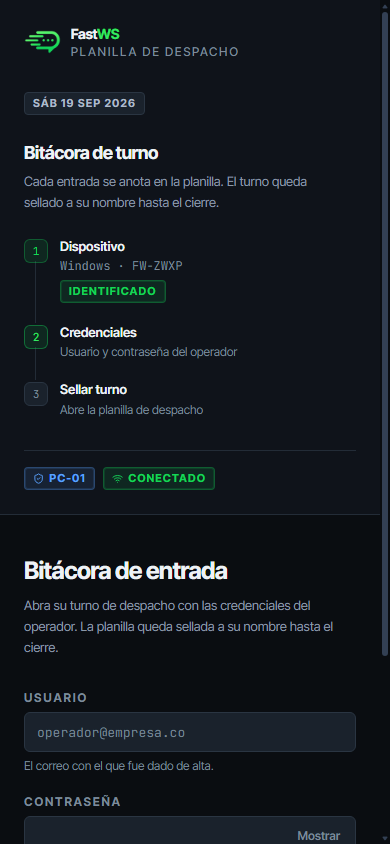
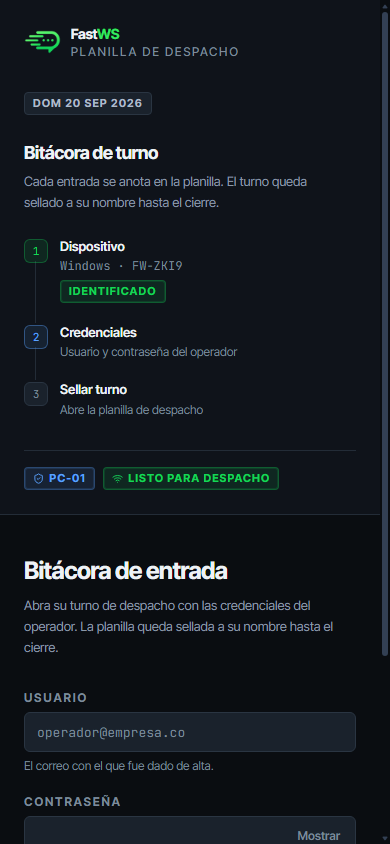
fix(ui): backlog de crítica #3 — foco por fase en recuperación, verde fuera de pasivos de edición (caret/selección/checkbox), placeholder ink-500, menú ARIA con Tab que restaura foco, error de login ligado a ambos campos, <time dateTime>, skip-link + guard de Alt+n, DispatchBar con size; docs y 6 ra

diff --git a/src/app/account-menu.tsx b/src/app/account-menu.tsx
@@ -45,8 +45,7 @@ export function AccountMenu() {
       return
     }
     if (event.key === "Tab" && open) {
-      setOpen(false)
-      setConfirming(false)
+      close()
       return
     }
     if (!open || (event.key !== "ArrowDown" && event.key !== "ArrowUp")) return
@@ -58,7 +57,12 @@ export function AccountMenu() {
     if (items.length === 0) return
     const current = items.indexOf(document.activeElement as HTMLElement)
     const step = event.key === "ArrowDown" ? 1 : -1
-    const next = (current + step + items.length) % items.length
+    const next =
+      current === -1
+        ? event.key === "ArrowDown"
+          ? 0
+          : items.length - 1
+        : (current + step + items.length) % items.length
     items[next]?.focus()
   }
 
@@ -119,10 +123,7 @@ export function AccountMenu() {
 
       {open && (
         <div
-          id={menuId}
           ref={menuRef}
-          role="menu"
-          aria-label="Cuenta del usuario"
           className="absolute right-0 top-[calc(100%+0.5rem)] z-50 w-72 rounded-panel border border-rule bg-base-800"
         >
           {confirming ? (
@@ -134,7 +135,7 @@ export function AccountMenu() {
                 La planilla quedará sellada a su nombre. Podrá abrirla de nuevo con sus
                 credenciales.
               </p>
-              <div className="space-y-1">
+              <div id={menuId} role="menu" aria-label="Cerrar turno" className="space-y-1">
                 <button
                   type="button"
                   role="menuitem"
@@ -172,7 +173,7 @@ export function AccountMenu() {
                 {device.id} · {device.code} · {device.platform}
               </p>
 
-              <div className="p-1.5">
+              <div id={menuId} role="menu" aria-label="Cuenta del usuario" className="p-1.5">
                 <button
                   type="button"
                   role="menuitem"

diff --git a/src/app/layout.tsx b/src/app/layout.tsx
@@ -1,5 +1,5 @@
-import { useEffect } from "react"
-import { Outlet, useNavigate } from "react-router-dom"
+import { useEffect, useRef } from "react"
+import { Outlet, useLocation, useNavigate } from "react-router-dom"
 
 import { shortcutMap } from "./nav"
 import { Sidebar } from "./sidebar"
@@ -7,10 +7,18 @@ import { Topbar } from "./topbar"
 
 export function AppLayout() {
   const navigate = useNavigate()
+  const { pathname } = useLocation()
+  const mainRef = useRef<HTMLElement>(null)
+
+  useEffect(() => {
+    mainRef.current?.focus({ preventScroll: true })
+  }, [pathname])
 
   useEffect(() => {
     const onKeyDown = (event: KeyboardEvent) => {
       if (!event.altKey) return
+      const target = event.target as HTMLElement | null
+      if (target?.closest("input, textarea, select, [contenteditable='true']")) return
       const path = shortcutMap.get(event.key)
       if (!path) return
       event.preventDefault()
@@ -22,10 +30,21 @@ export function AppLayout() {
 
   return (
     <div className="flex h-screen overflow-hidden bg-base-950">
+      <a
+        href="#contenido"
+        className="sr-only focus:not-sr-only focus:absolute focus:left-4 focus:top-4 focus:z-50 focus:rounded-md focus:bg-base-800 focus:px-4 focus:py-2 focus:text-xs focus:font-semibold focus:text-ink-100"
+      >
+        Saltar al contenido
+      </a>
       <Sidebar />
       <div className="flex min-w-0 flex-1 flex-col">
         <Topbar />
-        <main className="flex-1 overflow-y-auto">
+        <main
+          id="contenido"
+          ref={mainRef}
+          tabIndex={-1}
+          className="flex-1 overflow-y-auto focus:outline-none"
+        >
           <Outlet />
         </main>
       </div>

diff --git a/src/features/auth/login-page.tsx b/src/features/auth/login-page.tsx
@@ -97,8 +97,10 @@ export function LoginPage() {
             value={email}
             onChange={(event) => setEmail(event.target.value)}
             placeholder="operador@empresa.co"
-            invalid={Boolean(fieldErrors.email)}
-            aria-describedby={fieldErrors.email ? "usuario-error" : "usuario-hint"}
+            invalid={Boolean(fieldErrors.email || error)}
+            aria-describedby={
+              fieldErrors.email ? "usuario-error" : error ? "login-error" : "usuario-hint"
+            }
             disabled={pending}
             required
           />
@@ -139,7 +141,7 @@ export function LoginPage() {
               type="checkbox"
               checked={remember}
               onChange={(event) => setRemember(event.target.checked)}
-              className="size-4 accent-brand-500"
+              className="size-4 accent-ink-100"
             />
             Recordar sesión en este equipo
           </label>
@@ -151,12 +153,12 @@ export function LoginPage() {
           </Link>
         </div>
 
-          {error && (
-            <p
-              id="login-error"
-              role="alert"
-              className="flex items-start gap-2 rounded-md border border-fallido/30 bg-fallido/10 px-3 py-2 text-xs leading-relaxed text-fallido"
-            >
+        {error && (
+          <p
+            id="login-error"
+            role="alert"
+            className="flex items-start gap-2 rounded-md border border-fallido/30 bg-fallido/10 px-3 py-2 text-xs leading-relaxed text-fallido"
+          >
             <TriangleAlert className="mt-0.5 size-3.5 shrink-0" aria-hidden />
             {error}
           </p>

diff --git a/src/features/auth/recover-page.tsx b/src/features/auth/recover-page.tsx
@@ -141,6 +141,7 @@ export function RecoverPage() {
               aria-describedby={fieldErrors.correo ? "correo-error" : undefined}
               disabled={pending}
               required
+              autoFocus
             />
           </FormField>
 
@@ -168,7 +169,7 @@ export function RecoverPage() {
         footer={back}
       >
         <form onSubmit={handleReset} className="flex flex-col gap-5" noValidate>
-          <p className="stamp stamp--entregado">
+          <p role="status" className="stamp stamp--entregado">
             <MailCheck aria-hidden />
             Instrucciones enviadas a {email}
           </p>
@@ -192,6 +193,7 @@ export function RecoverPage() {
               aria-describedby={fieldErrors.codigo ? "codigo-error" : "codigo-hint"}
               disabled={pending}
               required
+              autoFocus
             />
           </FormField>
 
@@ -257,11 +259,16 @@ export function RecoverPage() {
       footer={back}
     >
       <div className="flex flex-col gap-5">
-        <p className="stamp stamp--entregado">
+        <p role="status" className="stamp stamp--entregado">
           <Check aria-hidden />
           Contraseña actualizada
         </p>
-        <Button variant="primary" className="w-full" onClick={() => navigate("/login")}>
+        <Button
+          variant="primary"
+          className="w-full"
+          onClick={() => navigate("/login")}
+          autoFocus
+        >
           Volver a iniciar sesión
         </Button>
       </div>

diff --git a/src/features/auth/auth-shell.tsx b/src/features/auth/auth-shell.tsx
@@ -19,7 +19,7 @@ export interface TurnStep {
 
 const stepTone: Record<TurnStep["tone"], string> = {
   hecho: "border-entregado/30 bg-entregado/10 text-entregado",
-  activo: "border-brand-500/40 bg-brand-500/10 text-brand-400",
+  activo: "border-proceso/40 bg-proceso/10 text-proceso",
   pendiente: "border-rule bg-base-800 text-ink-500",
 }
 
@@ -102,14 +102,14 @@ export function AuthShell({ steps, title, intro, device, children, footer }: Aut
             {device.id}
           </span>
           {online ? (
-            <span className="stamp stamp--entregado">
+            <span role="status" className="stamp stamp--entregado">
               <Wifi aria-hidden />
-              Conectado
+              Listo para despacho
             </span>
           ) : (
-            <span className="stamp stamp--fallido">
+            <span role="status" className="stamp stamp--pendiente">
               <WifiOff aria-hidden />
-              Sin conexión
+              Modo local · envíos en pausa
             </span>
           )}
         </div>

diff --git a/src/components/ui/dispatch-bar.tsx b/src/components/ui/dispatch-bar.tsx
@@ -11,6 +11,7 @@ interface DispatchBarProps {
   segments: DispatchSegment[]
   total: number
   className?: string
+  size?: "md" | "sm"
 }
 
 const segmentColor: Record<MessageStatus, string> = {
@@ -31,7 +32,7 @@ const statusLabel: Record<MessageStatus, string> = {
   CANCELADO: "cancelados",
 }
 
-export function DispatchBar({ segments, total, className }: DispatchBarProps) {
+export function DispatchBar({ segments, total, className, size = "md" }: DispatchBarProps) {
   const shown = segments.filter((s) => s.count > 0)
   const empty = shown.length === 0
   const label = empty
@@ -42,7 +43,11 @@ export function DispatchBar({ segments, total, className }: DispatchBarProps) {
     <div
       role="img"
       aria-label={label}
-      className={cn("flex h-3 w-full overflow-hidden rounded-sm", className)}
+      className={cn(
+        "flex w-full overflow-hidden rounded-sm",
+        size === "sm" ? "h-1.5" : "h-3",
+        className
+      )}
     >
       {empty ? (
         <div className="h-full w-full bg-base-700" />

diff --git a/src/app/module-page.tsx b/src/app/module-page.tsx
@@ -16,9 +16,16 @@ export function ModulePage({ icon: Icon, title, description, segment }: ModulePa
       <header className="mb-6">
         <div className="flex items-center gap-3 text-ink-400">
           <Icon className="size-4" aria-hidden />
-          <time className="text-xs font-semibold uppercase tracking-[0.14em]">
-            Registro · {formatDateStamp()}
-          </time>
+          <p className="text-xs font-semibold uppercase tracking-[0.14em]">
+            Registro ·{" "}
+            <time
+              dateTime={new Date().toISOString()}
+              suppressHydrationWarning
+              className="text-ink-400"
+            >
+              {formatDateStamp()}
+            </time>
+          </p>
         </div>
         <h1 className="mt-2 text-2xl font-bold tracking-tight text-ink-100">{title}</h1>
         <p className="mt-1.5 max-w-xl text-sm leading-relaxed text-ink-400">{description}</p>

diff --git a/src/components/ui/input.tsx b/src/components/ui/input.tsx
@@ -3,7 +3,7 @@ import type { ComponentPropsWithoutRef, ReactNode } from "react"
 import { cn } from "@/lib/utils"
 
 const inputBase =
-  "h-10 w-full rounded-md border bg-base-800 px-3 text-[0.8125rem] text-ink-100 outline-none transition-colors placeholder:text-ink-600 focus:border-brand-500/60 focus-visible:outline-2 focus-visible:outline-offset-2 focus-visible:outline-[color-mix(in_oklab,var(--color-brand-500)_72%,transparent)] disabled:cursor-not-allowed disabled:opacity-45"
+  "h-10 w-full rounded-md border bg-base-800 px-3 text-[0.8125rem] text-ink-100 outline-none transition-colors placeholder:text-ink-500 focus:border-brand-500/60 focus-visible:outline-2 focus-visible:outline-offset-2 focus-visible:outline-[color-mix(in_oklab,var(--color-brand-500)_72%,transparent)] disabled:cursor-not-allowed disabled:opacity-45"
 
 export interface InputProps extends ComponentPropsWithoutRef<"input"> {
   mono?: boolean

diff --git a/src/features/dashboard/index.tsx b/src/features/dashboard/index.tsx
@@ -184,7 +184,8 @@ function RecentCampaigns() {
                     { status: "PENDIENTE", count: c.pendiente },
                   ]}
                   total={c.total}
-                  className="mt-1.5 h-1.5"
+                  size="sm"
+                  className="mt-1.5"
                 />
               </div>
               <div className="text-right">
@@ -332,6 +333,7 @@ export function DashboardPage() {
             variant="secondary"
             icon={<ExternalLink className="size-4" aria-hidden />}
             onClick={() => navigate("/app/campanas")}
+            aria-label="Ir a campañas (próximamente)"
           >
             Ir a campañas
           </Button>

diff --git a/src/components/ui/button.tsx b/src/components/ui/button.tsx
@@ -34,13 +34,14 @@ const sizes: Record<Size, string> = {
 
 export const Button = forwardRef<HTMLButtonElement, ButtonProps>(
   function Button(
-    { className, variant = "secondary", size = "md", loading, icon, children, ...props },
+    { className, variant = "secondary", size = "md", loading, disabled, icon, children, ...props },
     ref
   ) {
     return (
       <button
         ref={ref}
         className={cn(base, variants[variant], sizes[size], className)}
+        disabled={disabled || loading}
         aria-busy={loading || undefined}
         {...props}
       >

diff --git a/src/styles/index.css b/src/styles/index.css
@@ -71,7 +71,7 @@
   }
 
   ::selection {
-    background: color-mix(in oklab, var(--color-brand-500) 35%, transparent);
+    background: color-mix(in oklab, var(--color-ink-100) 18%, transparent);
     color: var(--color-ink-100);
   }
 
@@ -96,7 +96,7 @@
   textarea,
   select,
   [contenteditable="true"] {
-    caret-color: var(--color-brand-500);
+    caret-color: var(--color-ink-100);
   }
 
   :focus-visible {

diff --git a/src/app/topbar.tsx b/src/app/topbar.tsx
@@ -56,6 +56,7 @@ export function Topbar() {
             variant="secondary"
             icon={<Plus className="size-4" aria-hidden />}
             onClick={() => navigate("/app/campanas")}
+            aria-label="Nueva campaña (próximamente)"
           >
             Nueva campaña
           </Button>
